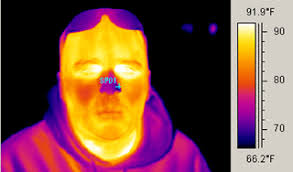
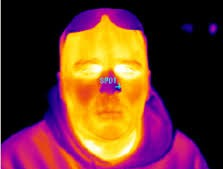
TempDet

diff --git a/Python/Major project/Test_GUI/TempDet.py b/Python/Major project/Test_GUI/TempDet.py
@@ -1,0 +1,104 @@
+import numpy as np
+import cv2
+import sys
+import matplotlib.pyplot as plt
+
+face_cascade = cv2.CascadeClassifier('cascade.xml')
+
+img = cv2.imread('D:/GITHUB/MyFiles-master/Python/Major project/RGB_thermal/thermal_9.jpg')
+
+img = cv2.resize(img, (500, 500))
+
+gray = cv2.cvtColor(img, cv2.COLOR_BGR2GRAY)
+
+faces = face_cascade.detectMultiScale(gray,1.01,7)
+flag=0
+for (x,y,w,h) in faces:
+    img_dect = cv2.rectangle(img,(x,y),(x+int(1.4*w),y+int(1.4*h)),(0,200,0),3)
+    if x>=0:
+        flag=1
+
+cv2.imshow('img',img)
+
+if flag==1:
+    crop_img = img[y:y+int(1.4*h), x:x+int(1.4*w)]
+    cv2.imshow("cropped", crop_img)
+
+if flag==0:
+    cv2.waitKey(0)
+    cv2.destroyAllWindows()
+    sys.exit("No face detected")
+
+# crop_img=cv2.cvtColor(crop_img, cv2.COLOR_BGR2RGB)
+
+lower = np.array([0,0,170])
+higher=np.array([35,35,255])
+mask=cv2.inRange(crop_img,lower,higher)
+
+
+cont,_=cv2.findContours(mask,cv2.RETR_EXTERNAL,cv2.CHAIN_APPROX_NONE)
+cont_img=cv2.drawContours(crop_img,cont,-1,100,3)
+
+
+for cnt in cont:
+
+    x,y,w,h=cv2.boundingRect(cnt)
+    if w>30:
+        print(w,h)
+        cv2.rectangle(crop_img,(x,y),(x+w,y+h),(255,255,255),3)
+
+cv2.imshow('mask',crop_img)
+
+
+cv2.waitKey(0)
+cv2.destroyAllWindows()
+
+
+
+
+
+
+
+
+
+
+
+
+
+
+
+
+
+
+# img=cv2.imread('thermal_1.jpg')
+# IMG=cv2.imread('thermal_1.jpg')
+
+
+
+
+# lower = np.array([0,0,240])
+# higher=np.array([35,35,255])
+# mask=cv2.inRange(img,lower,higher)
+
+
+# cont,_=cv2.findContours(mask,cv2.RETR_EXTERNAL,cv2.CHAIN_APPROX_NONE)
+# cont_img=cv2.drawContours(img,cont,-1,100,3)
+
+
+# for cnt in cont:
+
+#     x,y,w,h=cv2.boundingRect(cnt)
+#     if w>7:
+#         print(w,h)
+#         cv2.rectangle(img,(x,y),(x+w,y+h),(255,255,255),3)
+
+# plt.imshow(mask,'gray')
+# plt.show()
+
+
+# img=cv2.cvtColor(img, cv2.COLOR_BGR2RGB)
+
+# plt.imshow(img)
+# plt.show()
+
+# cv2.waitKey(0)

diff --git a/Python/Major project/MouseClick.py b/Python/Major project/MouseClick.py
@@ -27,8 +27,10 @@ def function(event, x, y, flags, params):
 # a = cv2.imread("solar.jpg",-1)
 # z = cv2.imread("solar.jpg",-1)
 # ret, a = cap.read()
-a = cv2.imread("thermal_2.jpg",-1)
-z = cv2.imread("thermal_2.jpg",-1)
+a = cv2.imread('D:/GITHUB/MyFiles-master/Python/Major project/RGB_thermal/thermal_10.jpg',-1)
+z = cv2.imread('D:/GITHUB/MyFiles-master/Python/Major project/RGB_thermal/thermal_10.jpg',-1)
+a = cv2.resize(a, (500, 500))
+z = cv2.resize(z, (500, 500))
 
 cv2.namedWindow('image')
 cv2.setMouseCallback('image', function)

diff --git a/Python/Major project/Test_GUI/TestCode.py b/Python/Major project/Test_GUI/TestCode.py
@@ -3,7 +3,7 @@ import cv2
 
 face_cascade = cv2.CascadeClassifier('cascade.xml')
 
-img = cv2.imread('D:/GITHUB/MyFiles-master/Python/Major project/RGB_thermal/thermal_9.jpg')
+img = cv2.imread('D:/GITHUB/MyFiles-master/Python/Major project/RGB_thermal/thermal_6.jpg')
 
 img = cv2.resize(img, (500, 500))
 
